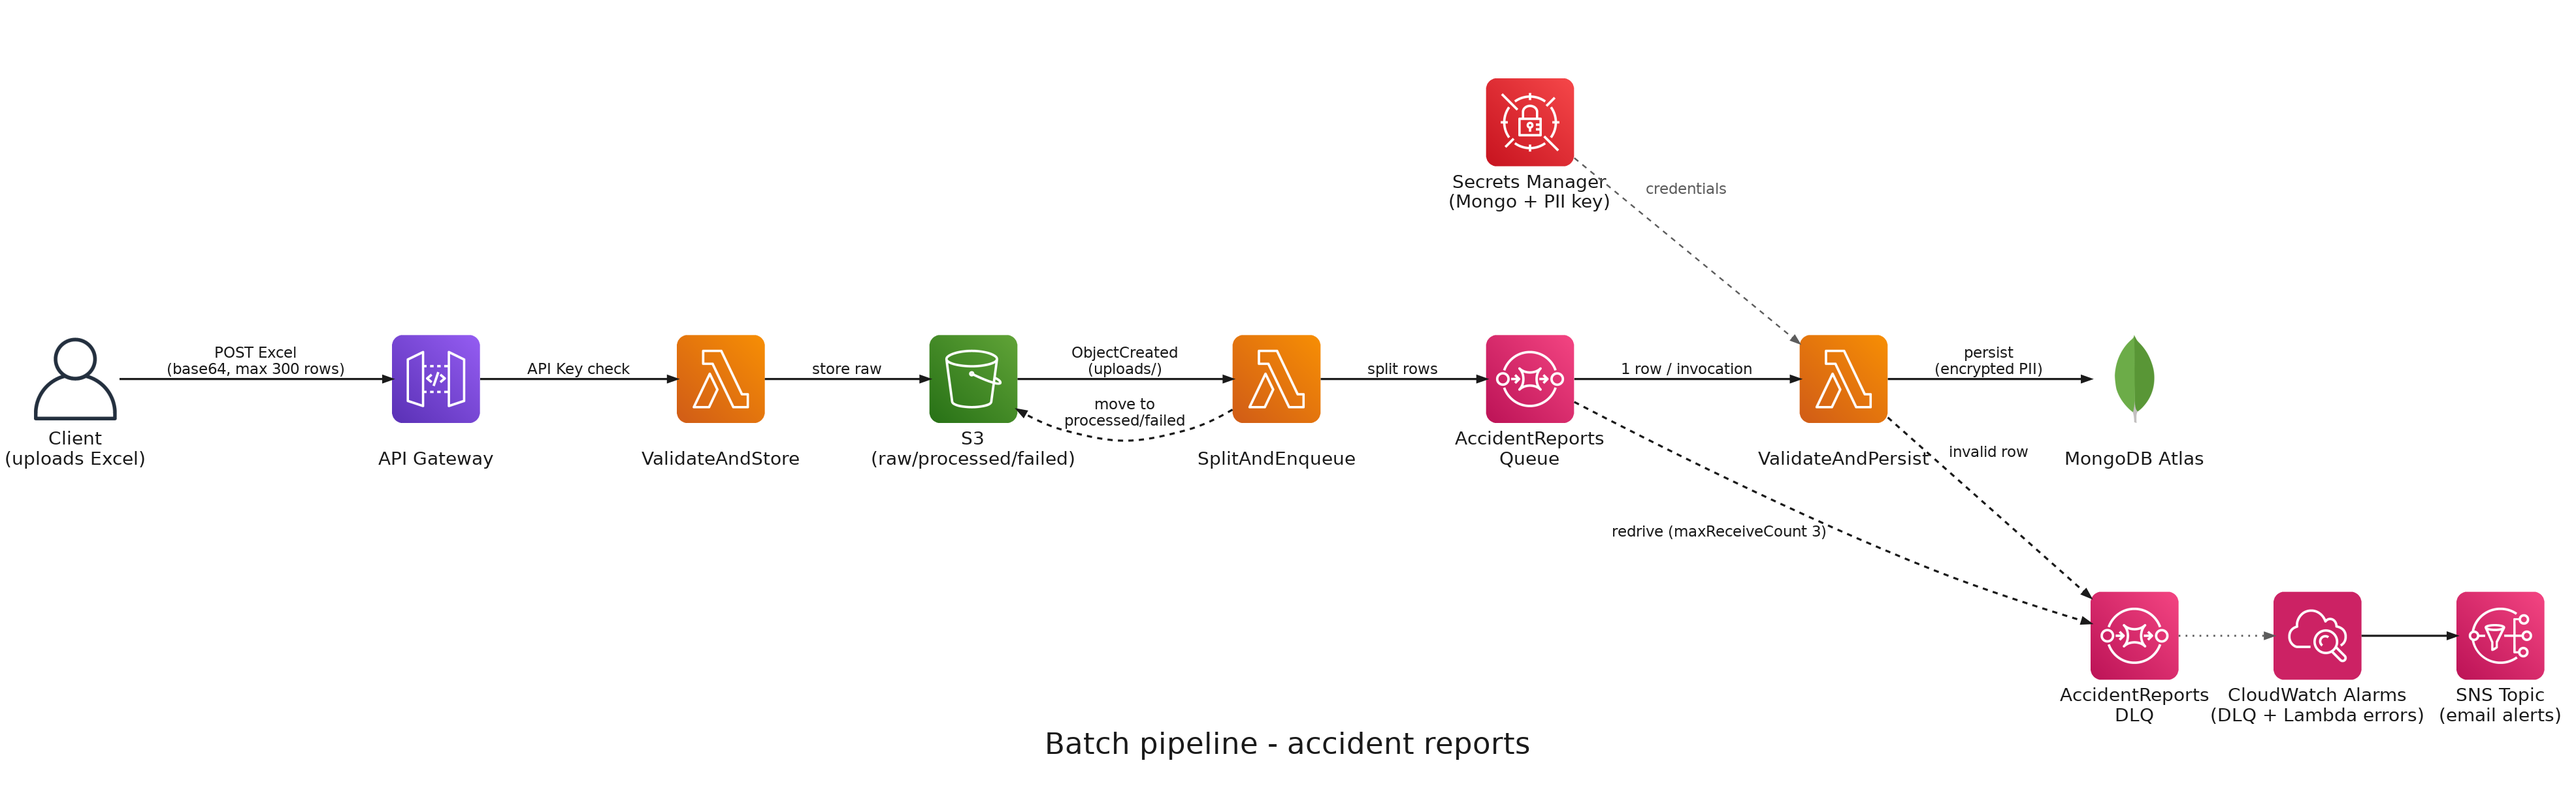
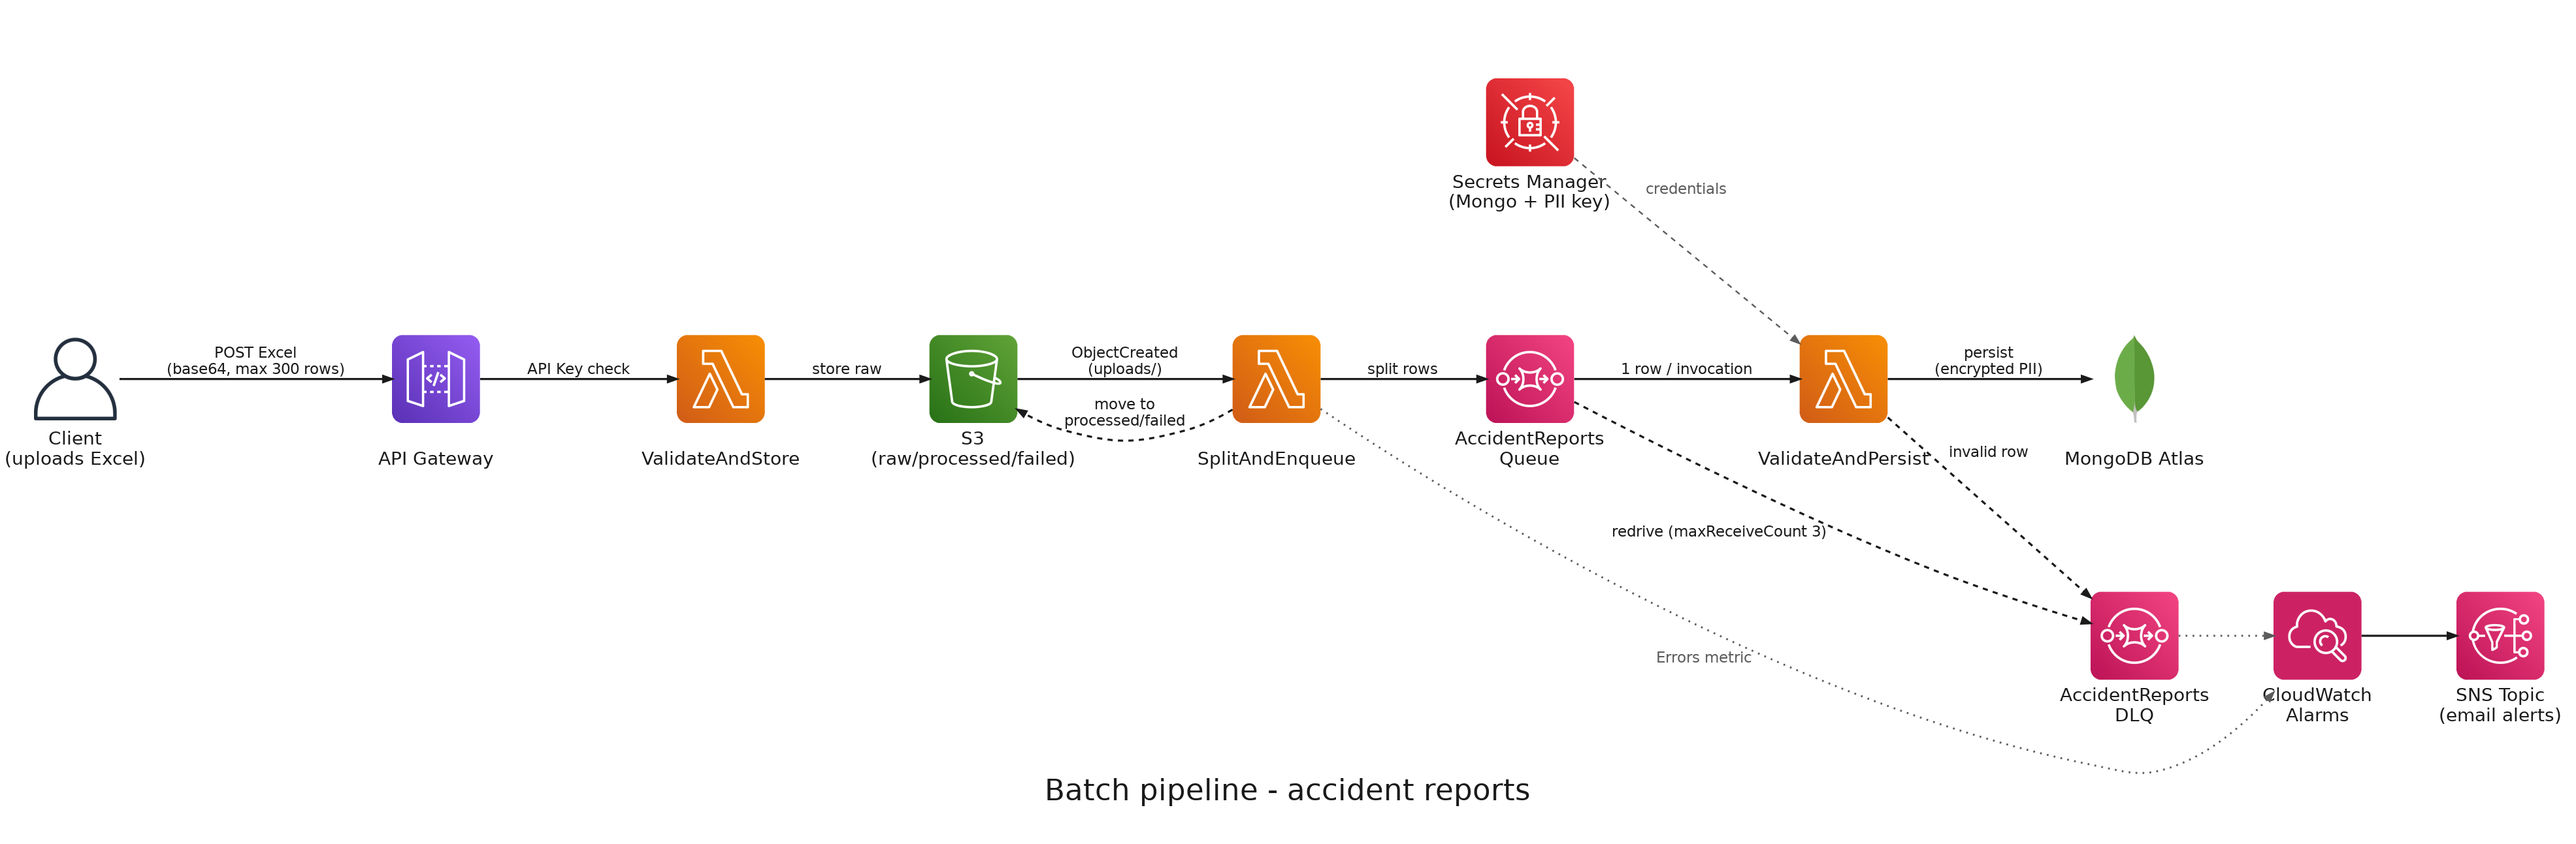
* fix: restore the missing SplitAndEnqueue -> CloudWatch Alarms edge in the batch diagram

diff --git a/docs/architecture.py b/docs/architecture.py
@@ -102,7 +102,7 @@ with Diagram(
     mongo = MongoDB("MongoDB Atlas", height=NODE_H)
 
     dlq = SQS("AccidentReports\nDLQ", height=NODE_H)
-    cloudwatch = Cloudwatch("CloudWatch Alarms\n(DLQ + Lambda errors)", height=NODE_H)
+    cloudwatch = Cloudwatch("CloudWatch\nAlarms", height=NODE_H)
     sns = SNS("SNS Topic\n(email alerts)", height=NODE_H)
 
     client >> flow(label="POST Excel\n(base64, max 300 rows)") >> api_gw
@@ -119,6 +119,7 @@ with Diagram(
     queue >> loose(xlabel="redrive (maxReceiveCount 3)", style="dashed") >> dlq
 
     dlq >> alarm() >> cloudwatch
+    lambda2 >> alarm(xlabel="Errors metric", constraint="false") >> cloudwatch
     cloudwatch >> flow() >> sns
 
 
